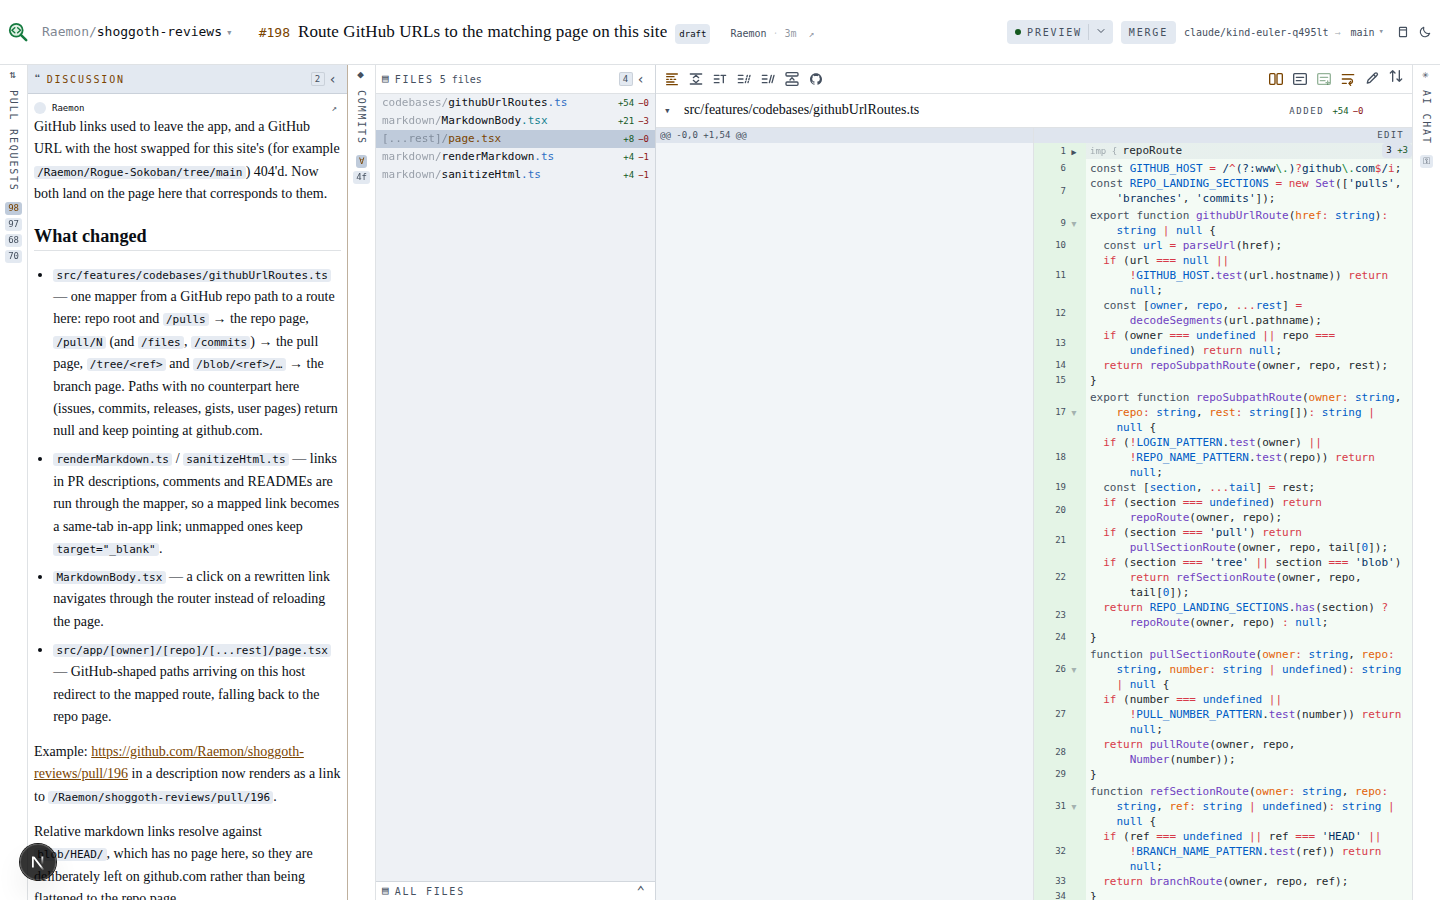
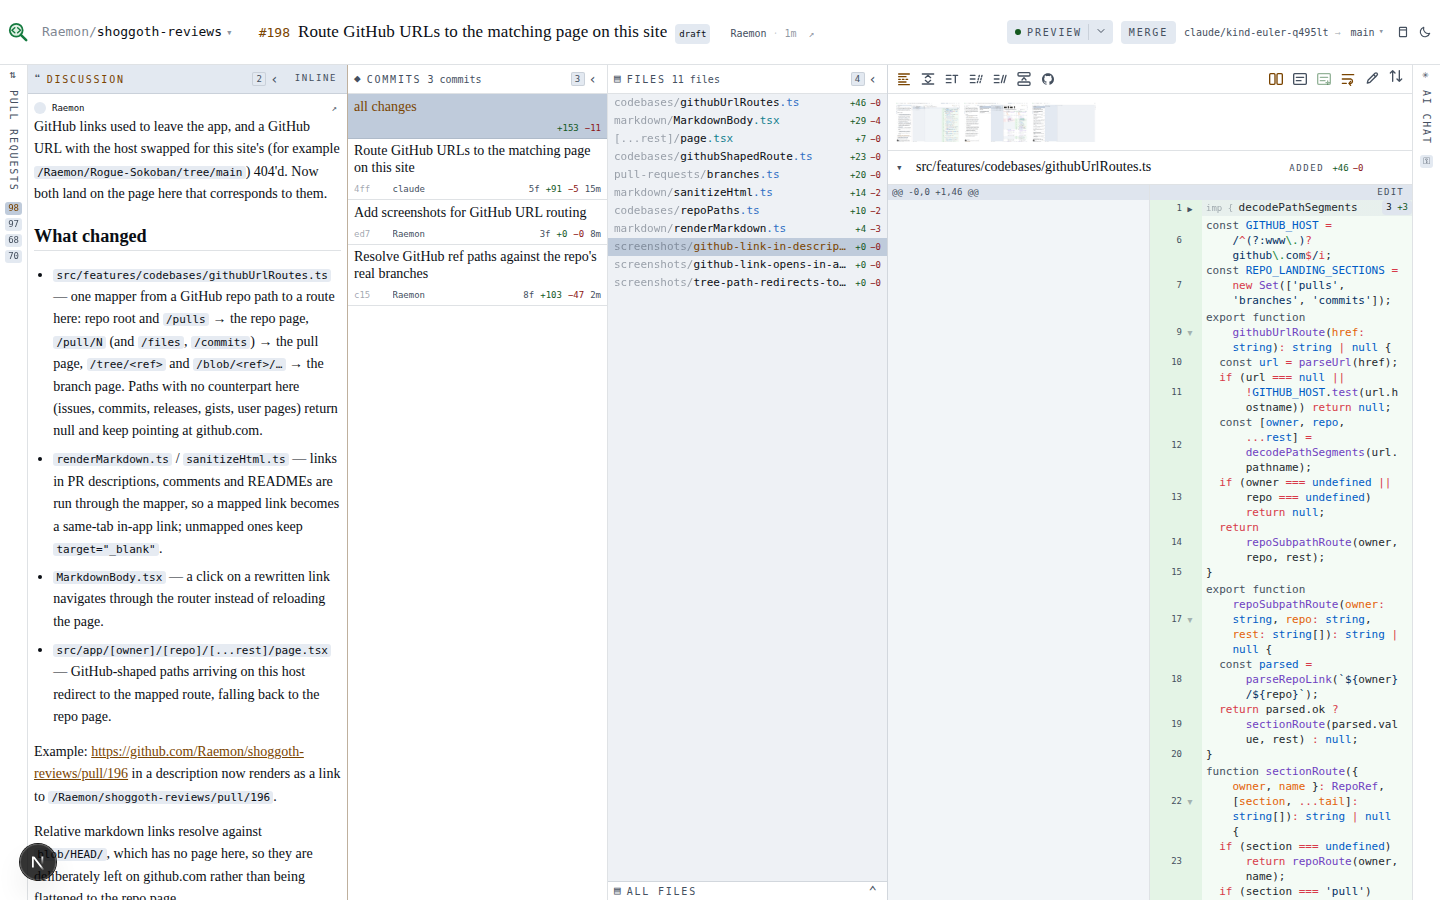
Keep reserved GitHub paths and relative links off the in-app routes
Links under reserved owners such as /apps or /sponsors, and relative
markdown links resolved against the synthetic blob base, are no longer
rewritten. Rewritten links keep their query and fragment, the catch-all
decodes its segments the way the link mapper does, and a click on a
linked image still opens the gallery.

Claude-Session: https://claude.ai/code/session_013ZpGG6BWpXDrP18rJ2Bh86

diff --git a/src/features/codebases/githubUrlRoutes.ts b/src/features/codebases/githubUrlRoutes.ts
@@ -5,16 +5,23 @@ import { parseRepoLink, type RepoRef } from '@/features/sources/parseRepoLink';
 
 const GITHUB_HOST = /^(?:www\.)?github\.com$/i;
 const REPO_LANDING_SECTIONS = new Set(['pulls', 'branches', 'commits']);
+const RESERVED_OWNERS = new Set([
+  'about', 'apps', 'collections', 'codespaces', 'contact', 'dashboard', 'enterprise', 'events', 'explore',
+  'features', 'issues', 'join', 'login', 'marketplace', 'new', 'notifications', 'orgs', 'pricing', 'pulls',
+  'search', 'security', 'settings', 'site', 'sponsors', 'topics', 'trending', 'users',
+]);
 
 export function githubUrlRoute(href: string): string | null {
   const url = parseUrl(href);
   if (url === null || !GITHUB_HOST.test(url.hostname)) return null;
   const [owner, repo, ...rest] = decodePathSegments(url.pathname);
   if (owner === undefined || repo === undefined) return null;
-  return repoSubpathRoute(owner, repo, rest);
+  const route = repoSubpathRoute(owner, repo, rest);
+  return route === null ? null : `${route}${url.search}${url.hash}`;
 }
 
 export function repoSubpathRoute(owner: string, repo: string, rest: string[]): string | null {
+  if (RESERVED_OWNERS.has(owner.toLowerCase())) return null;
   const parsed = parseRepoLink(`${owner}/${repo}`);
   return parsed.ok ? sectionRoute(parsed.value, rest) : null;
 }

diff --git a/src/features/markdown/MarkdownBody.tsx b/src/features/markdown/MarkdownBody.tsx
@@ -14,9 +14,9 @@ export function MarkdownBody({ html, className, tooltipStyle = false }: { html: 
   const [open, setOpen] = useState<OpenGallery | null>(null);
   const router = useRouter();
   const handleClick = (event: MouseEvent<HTMLDivElement>) => {
-    if (navigateUnderClick(event, router)) return;
     const gallery = galleryUnderClick(event);
-    if (gallery) setOpen(gallery);
+    if (gallery) return setOpen(gallery);
+    navigateUnderClick(event, router);
   };
   return (
     <div onClick={handleClick}>
@@ -49,7 +49,7 @@ function navigateUnderClick(event: MouseEvent<HTMLDivElement>, router: { push: (
 function routeUnderClick(event: MouseEvent<HTMLDivElement>): string | null {
   if (isModifiedClick(event)) return null;
   const href = clickedAncestor(event, 'a')?.getAttribute('href') ?? null;
-  return href?.startsWith('/') ? href : null;
+  return href?.startsWith('/') && !href.startsWith('//') ? href : null;
 }
 
 function clickedAncestor<E extends Element>(event: MouseEvent<HTMLDivElement>, selector: string): E | null {

diff --git a/src/app/[owner]/[repo]/[...rest]/page.tsx b/src/app/[owner]/[repo]/[...rest]/page.tsx
@@ -1,7 +1,8 @@
 import { redirect } from 'next/navigation';
 import { githubShapedRoute } from '@/features/codebases/githubShapedRoute';
+import { decodePathSegments } from '@/features/codebases/repoPaths';
 
 export default async function GithubShapedPathPage({ params }: { params: Promise<{ owner: string; repo: string; rest: string[] }> }) {
   const { owner, repo, rest } = await params;
-  redirect(await githubShapedRoute(owner, repo, rest));
+  redirect(await githubShapedRoute(owner, repo, decodePathSegments(rest.join('/'))));
 }

diff --git a/src/features/markdown/sanitizeHtml.ts b/src/features/markdown/sanitizeHtml.ts
@@ -31,9 +31,12 @@ export interface UrlBases {
   src: string;
 }
 
+const ABSOLUTE_URL = /^(?:[a-z][a-z0-9+.-]*:|\/\/)/i;
+
 export function safeHref(value: string, base: string): string | null {
   const resolved = safeUrl(value, base);
-  return resolved === null ? null : githubUrlRoute(resolved) ?? resolved;
+  if (resolved === null || !ABSOLUTE_URL.test(value.trim())) return resolved;
+  return githubUrlRoute(resolved) ?? resolved;
 }
 
 export function safeUrl(href: string, base: string): string | null {
